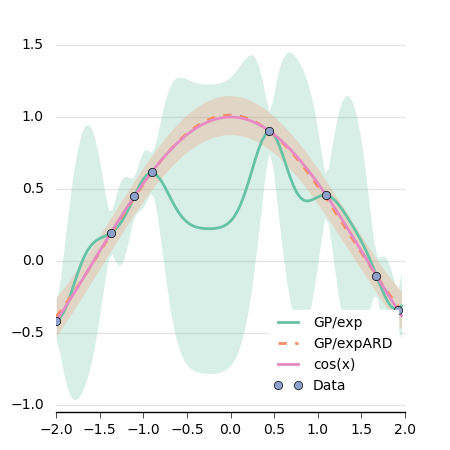
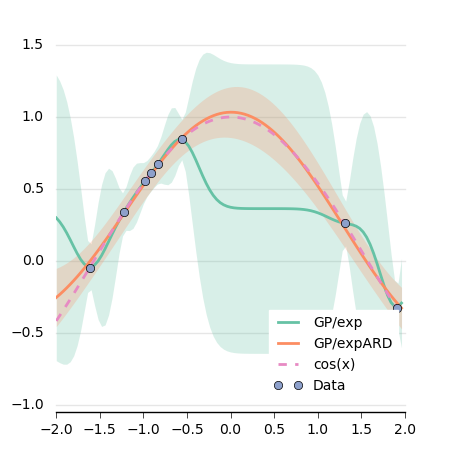
Minor fix in GP tutorial and plots

Changed region(s): [[0.1244, 0.0933, 0.9022, 0.9022]]

diff --git a/src/tutorials/plot_gp.py b/src/tutorials/plot_gp.py
@@ -33,8 +33,8 @@ ax = fig.add_subplot(111)
 ax.fill_between(gp[:,0], gp[:,1] - gp[:,2],  gp[:,1] + gp[:,2], alpha=0.25, linewidth=0, color=colors[0])
 ax.fill_between(gp_ard[:,0], gp_ard[:,1] - gp_ard[:,2],  gp_ard[:,1] + gp_ard[:,2], alpha=0.25, linewidth=0, color=colors[1])
 ax.plot(gp[:,0], gp[:,1], linewidth=2, color=colors[0])
-ax.plot(gp_ard[:,0], gp_ard[:,1], linewidth=2, linestyle='--', color=colors[1])
-ax.plot(gp[:,0], actual, linewidth=2, color=colors[3])
+ax.plot(gp_ard[:,0], gp_ard[:,1], linewidth=2, color=colors[1])
+ax.plot(gp[:,0], actual, linewidth=2, linestyle='--', color=colors[3])
 ax.plot(data[:,0], data[:, 1], 'o', color=colors[2])
 
 legend = ax.legend(["GP/exp", "GP/expARD", 'cos(x)', 'Data'], loc=4);
